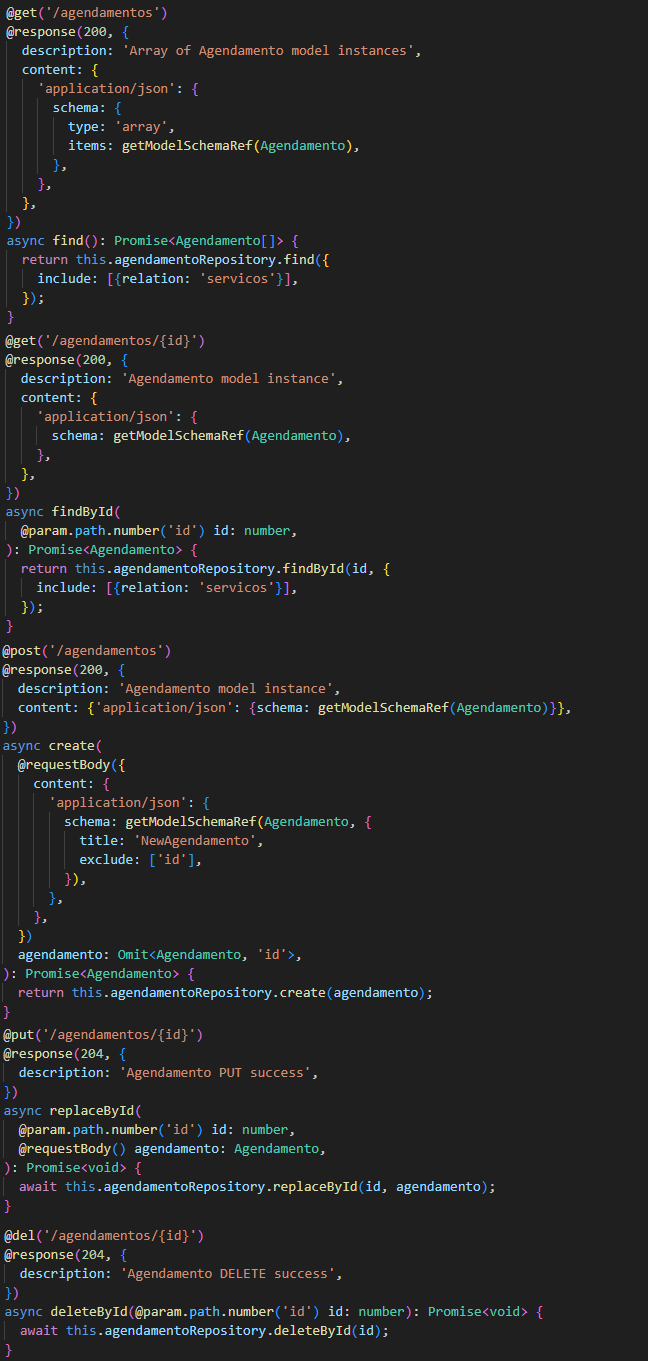
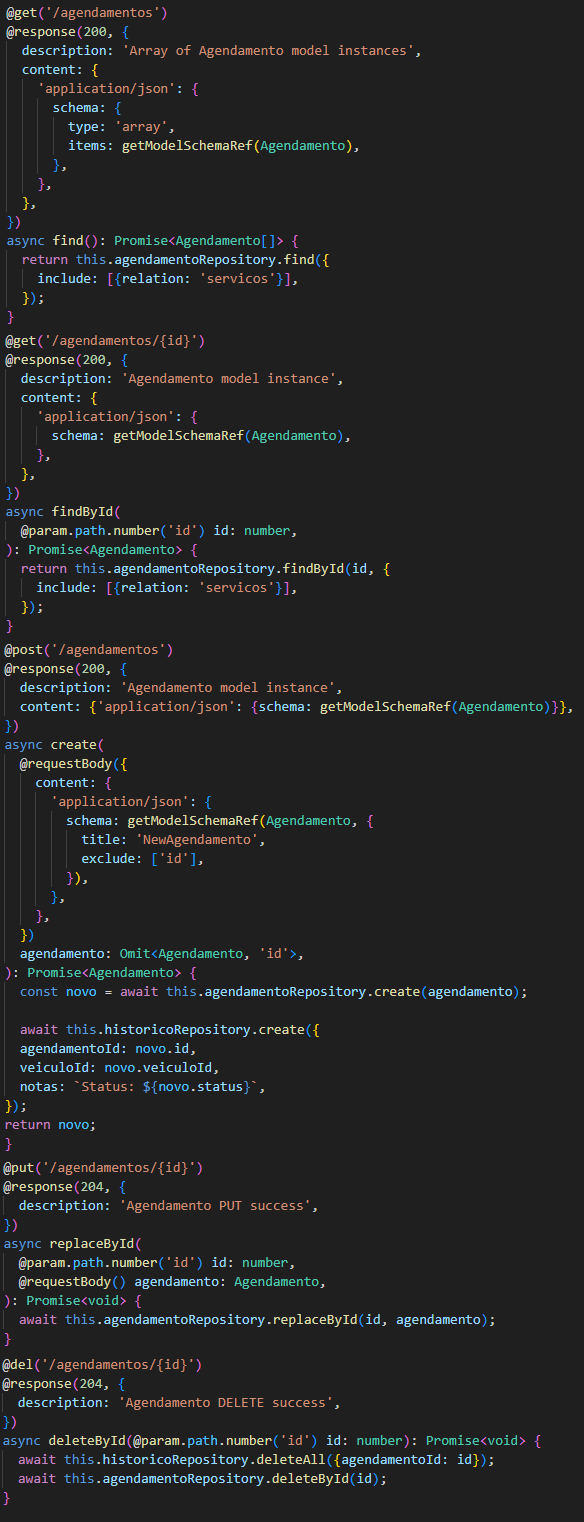
historico fix

diff --git a/src/autoshop-api/src/controllers/agendamento.controller.ts b/src/autoshop-api/src/controllers/agendamento.controller.ts
@@ -19,11 +19,14 @@ import {
 } from '@loopback/rest';
 import {Agendamento} from '../models';
 import {AgendamentoRepository} from '../repositories';
+import {HistoricoRepository} from '../repositories';
 
 export class AgendamentoController {
   constructor(
     @repository(AgendamentoRepository)
     public agendamentoRepository: AgendamentoRepository,
+    @repository(HistoricoRepository)
+    public historicoRepository: HistoricoRepository,
   ) {}
 
   @post('/agendamentos')
@@ -44,7 +47,14 @@ export class AgendamentoController {
     })
     agendamento: Omit<Agendamento, 'id'>,
   ): Promise<Agendamento> {
-    return this.agendamentoRepository.create(agendamento);
+    const novo = await this.agendamentoRepository.create(agendamento);
+
+    await this.historicoRepository.create({
+    agendamentoId: novo.id,
+    veiculoId: novo.veiculoId,
+    notas: `Status: ${novo.status}`,
+  });
+  return novo;
   }
 
   @get('/agendamentos/count')
@@ -146,6 +156,7 @@ export class AgendamentoController {
     description: 'Agendamento DELETE success',
   })
   async deleteById(@param.path.number('id') id: number): Promise<void> {
+    await this.historicoRepository.deleteAll({agendamentoId: id});
     await this.agendamentoRepository.deleteById(id);
   }
 }

diff --git a/src/.html/autoshop-api_mockup-interface.html b/src/.html/autoshop-api_mockup-interface.html
@@ -107,7 +107,7 @@
 </head>
 <body>
   <div class="main">
-    <h1>AutoShop API - Mockup</h1>
+    <h1>AutoShop API - Mockup - tcm24sibdg03</h1>
 
     <div class="nav">
       <button onclick="toggleSection('clientes')">clientes</button>

diff --git a/docs/RPF/RPF06.md b/docs/RPF/RPF06.md
@@ -28,7 +28,7 @@
 
 **Solução:**
 - Apenas implementar `GET` no controller.
-- Inserção automática ao criar um `Agendamento`.
+- Inserção/delete automática ao criar/apagar um `Agendamento`.
 - Relação `hasMany` com `Veiculo` para facilitar consulta.
 
 ### Erro comum: `ENOTFOUND locahost`
